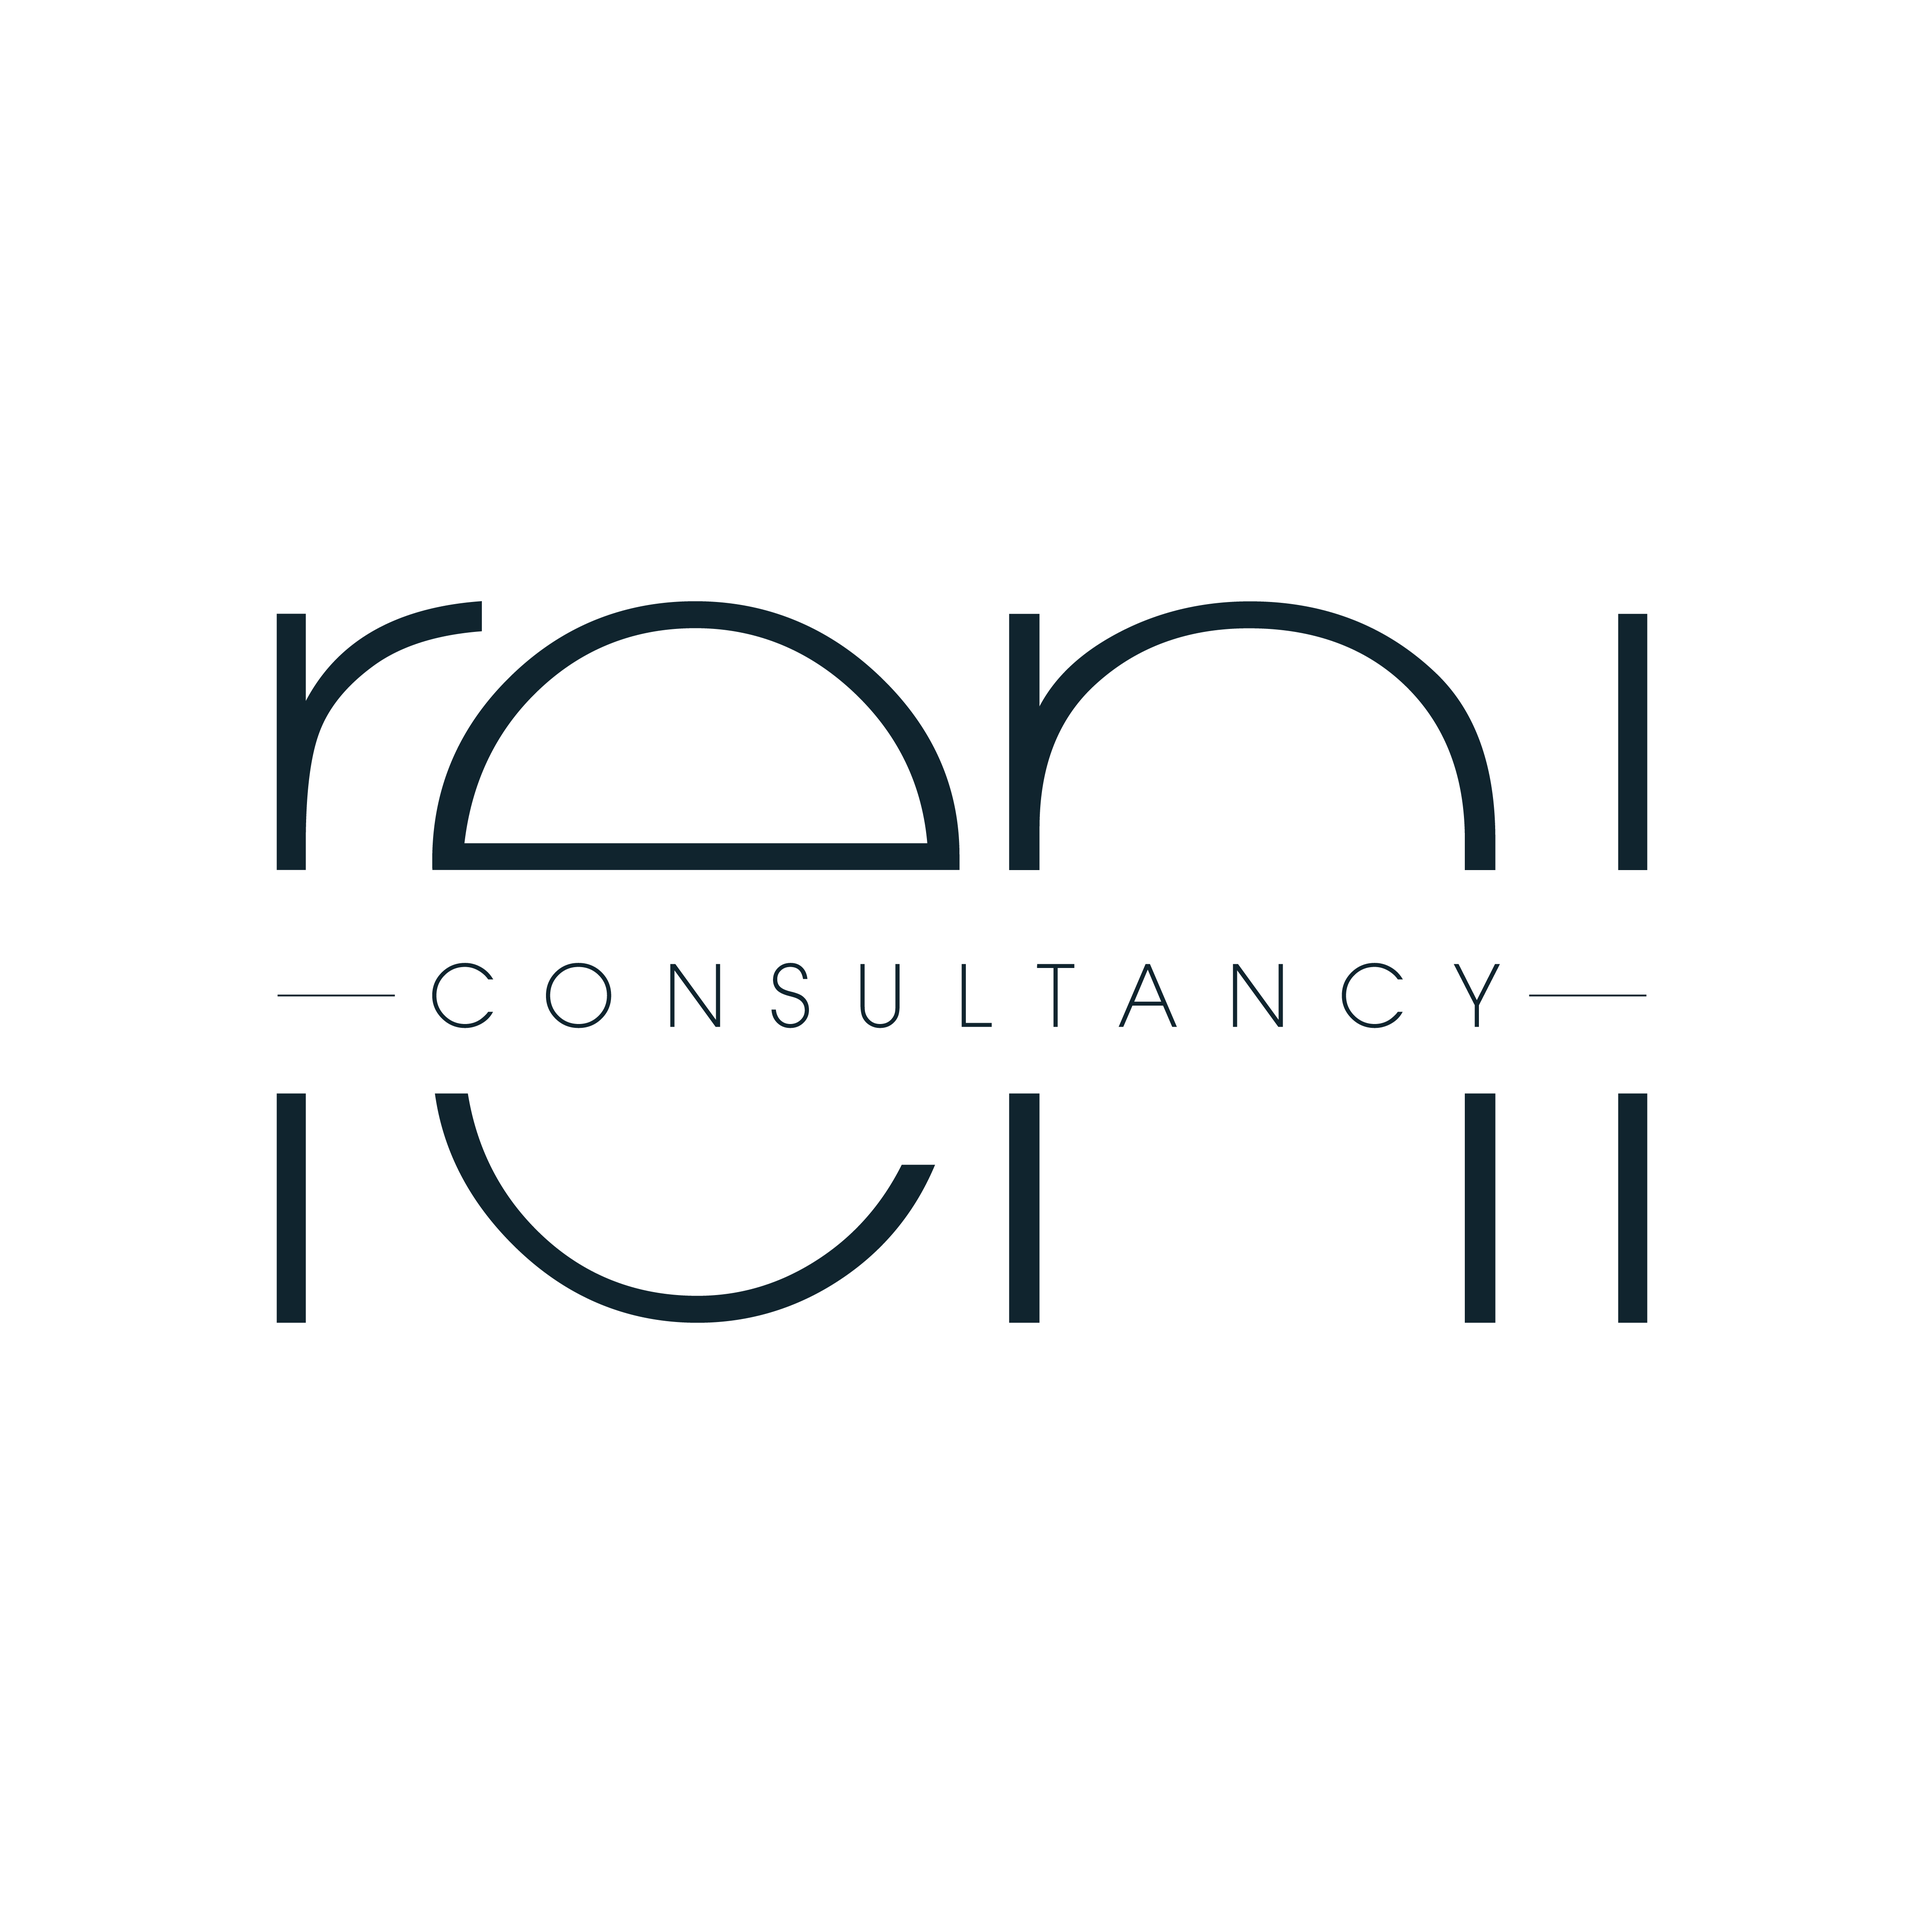
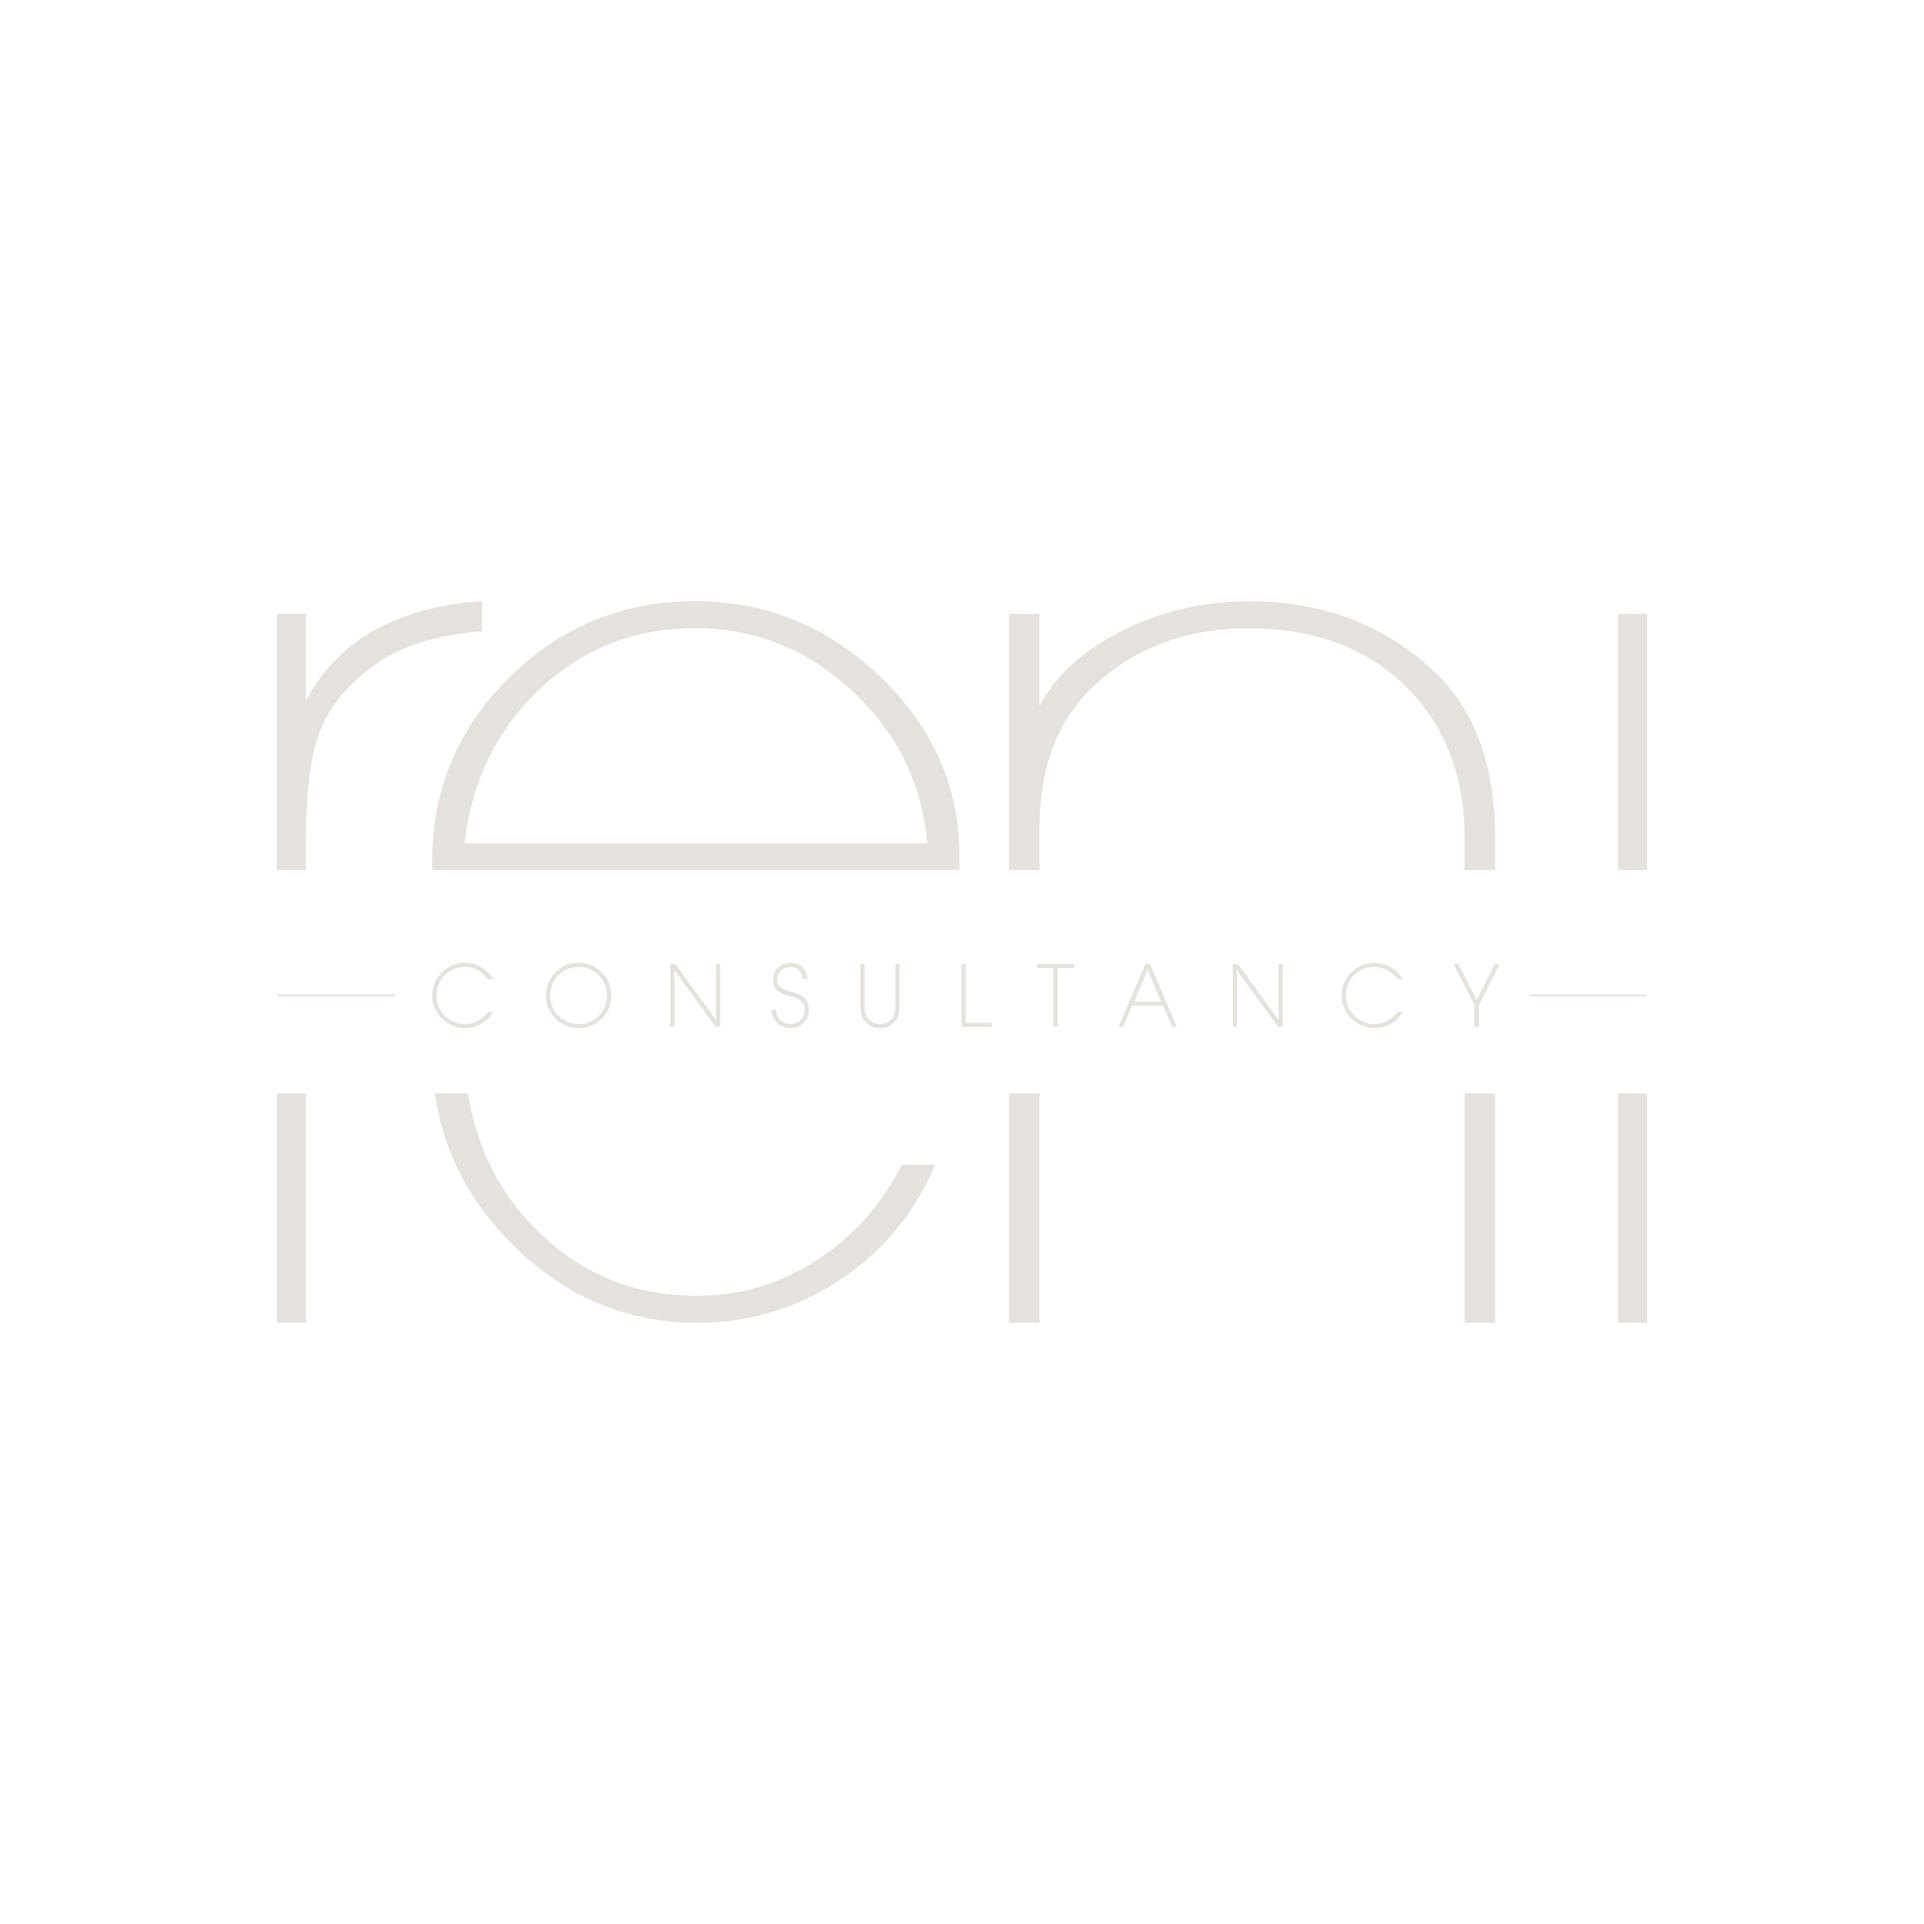
color changes

diff --git a/src/pages/Mentorship.js b/src/pages/Mentorship.js
@@ -3,7 +3,7 @@ function Mentorship() {
       <div>
         <div className="container">
           <div> <strong style={{color: "#ad6c3e"}}>We are working on something fantastic!</strong> <br/> <br/>
-          Follow us on <a href="https://twitter.com/RENILLC" style={{color: "#bd9e82"}}>Twitter</a> for updates on our Mentorship Program.</div>
+          Please continue to follow us for updates on our Mentorship Program.</div>
         </div>
       </div>
     );

diff --git a/src/pages/NoMatch.js b/src/pages/NoMatch.js
@@ -2,8 +2,7 @@ function NoMatch() {
     return (
       <div>
         <div className="container">
-          <div> <strong style={{color: "#ad6c3e"}}>Look's like there is nothing here...</strong> <br/> <br/>
-          But while you're here, connect with us on <a href="" style={{color: "#bd9e82"}}>LinkedIn</a>.</div>
+          <div> <strong style={{color: "#ad6c3e"}}>Look's like there is nothing here...</strong></div>
         </div>
       </div>
     );

diff --git a/src/components/NavBar.js b/src/components/NavBar.js
@@ -3,7 +3,7 @@ import Reni from "../assets/reni.png";
 
 function NavBar() {
     return (
-      <div className="row" id="navbar"> 
+      <div className="row navy" id="navbar"> 
         <div className="column">
           <Link to="/"><img src={Reni} style={{width: "100px"}}/></Link> 
         </div>
